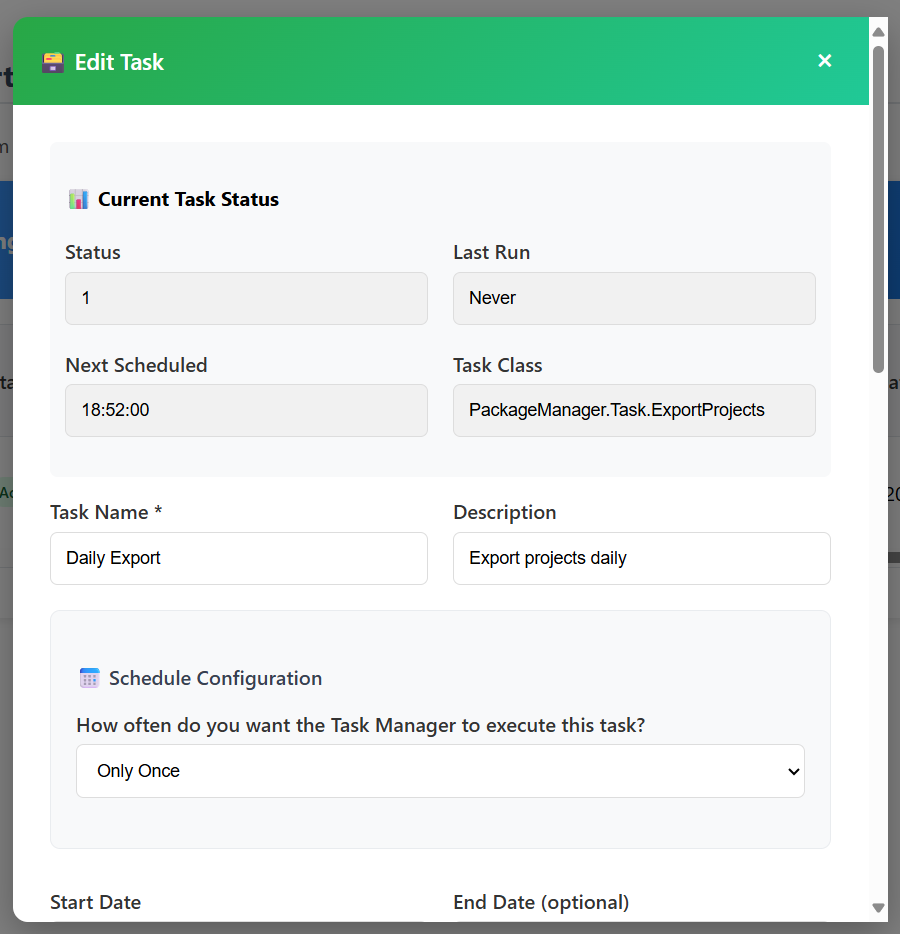
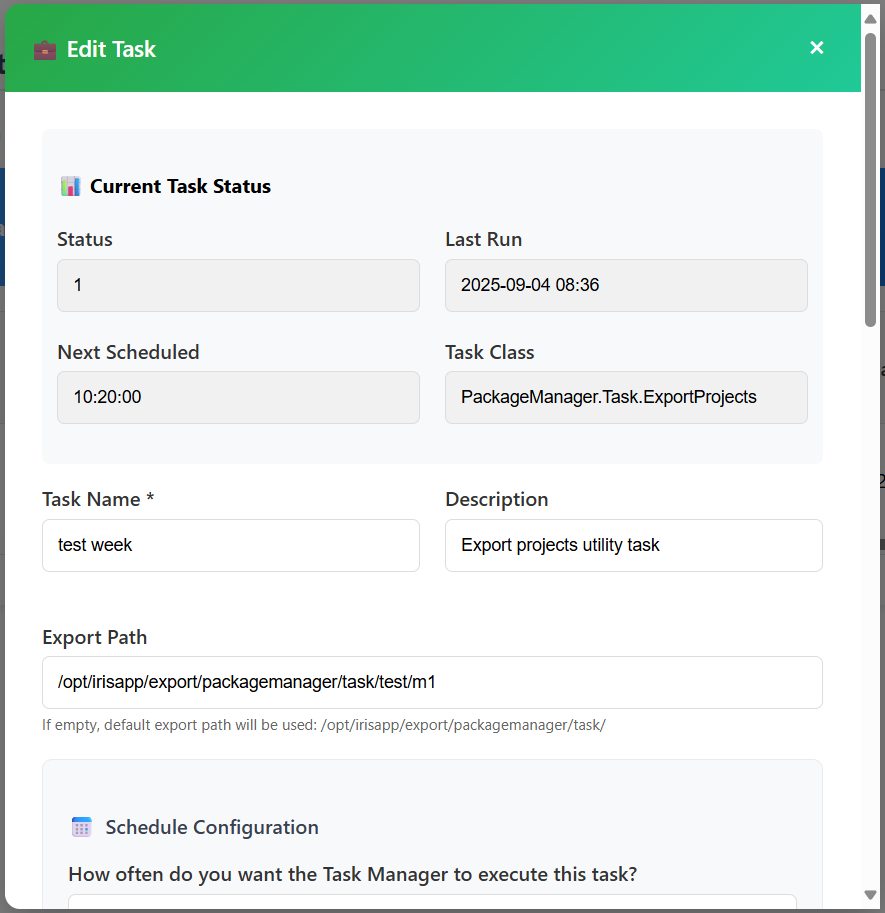
new config file added to calculate paths at runtime and not compile time; export directory now can be selected by the user

diff --git a/docs/user_guide/Package_Manager_Guide.md b/docs/user_guide/Package_Manager_Guide.md
@@ -194,6 +194,7 @@ Once the Docker container is running, you can access the application through you
    ![021](./pic/021.png "021")
 
 * **Task Name & Description**: Give your task a name, like "Daily Export", and a description to explain its purpose.
+* **Export Path**: Set your export path for the current task. If empty, the default path will be used. The latter can be set using the `PackageManager.Config` class. Please note that the **Exported Releases** section will show only files saved at the default path.
 * **Schedule Configuration**: Choose how often you want the task to run. Options include Daily, Weekly, or Only Once. You can specify the frequency (e.g., Every 1 day) and a Run time.
   ![022](./pic/022.png "022")
 * It's important to note that tasks, when run from the InterSystems IRIS Task Manager, will inherit the privileges and identity of the user who created them in the Package Manager (visible in the sidebar).
